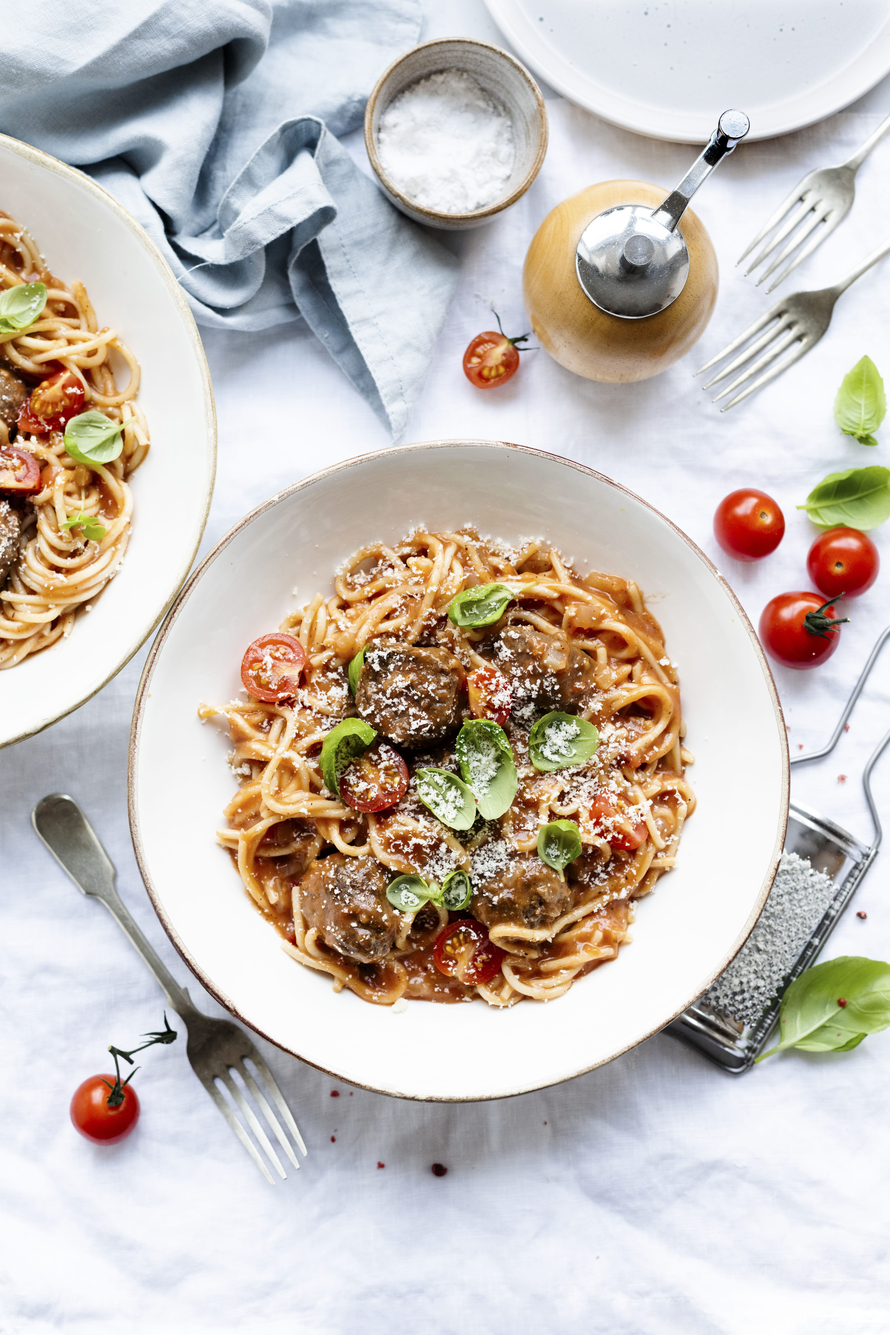
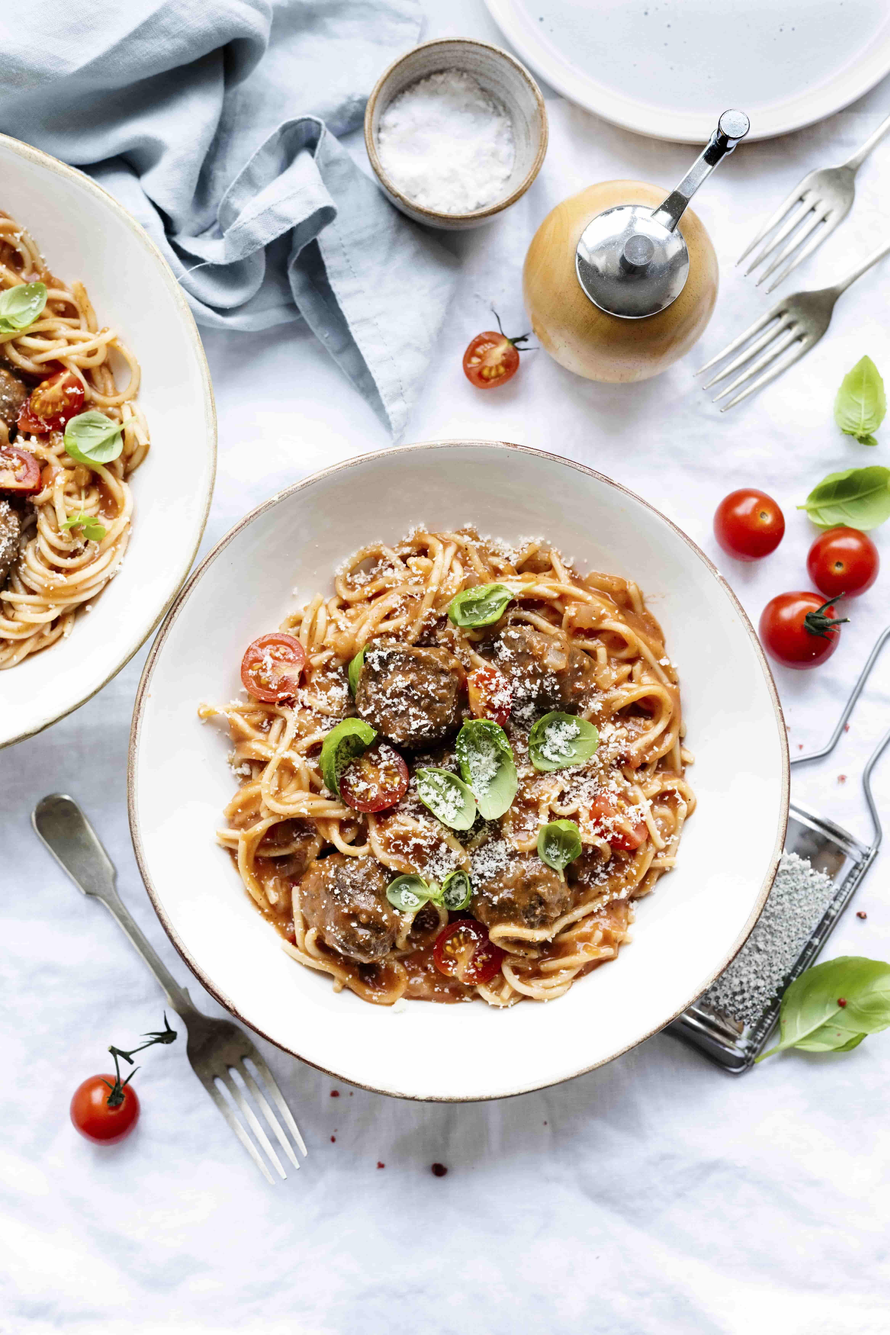
compress pasta img

diff --git a/README.md b/README.md
@@ -5,7 +5,7 @@
 Simple website for the imaginary restaurant. IT was created in order to improve:
 - JS Objects skills
 - DOM manipulation
-- CSS Transitions
+- CSS Animations
 
 <h2> Screenshots </h2>
 
